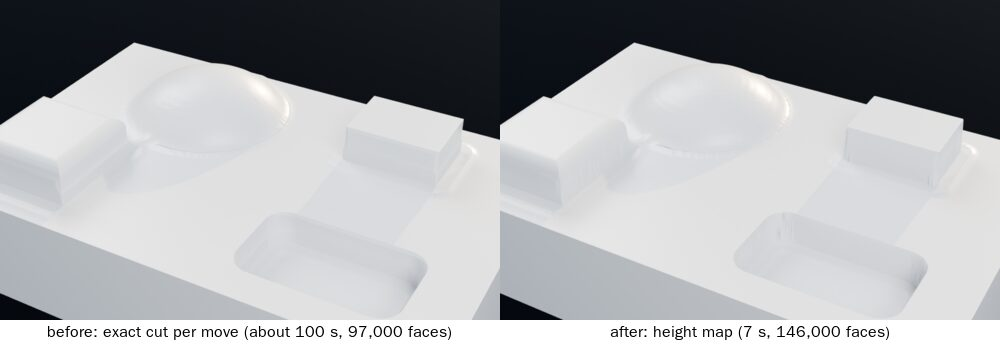
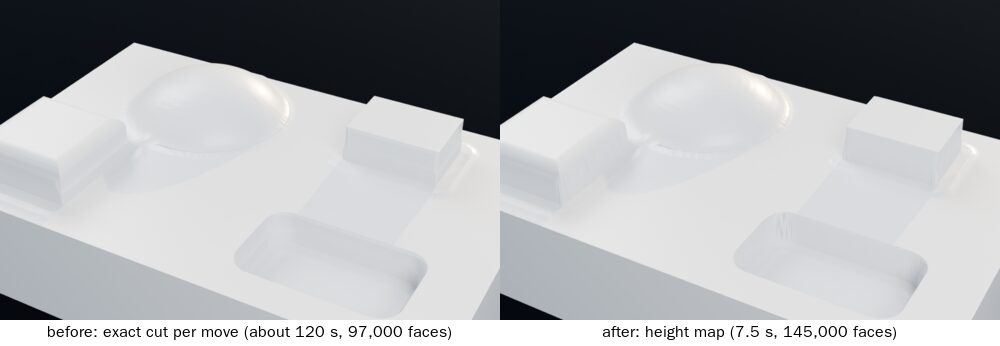
Task 0146 (work in progress): final numbers and pictures [skip ci]
Claude-Session: https://claude.ai/code/session_01LGPBd4df3oS3HTUJeq8D3D

Changed region(s): [[0.589, 0.9249, 0.899, 0.9827]]

diff --git a/CHANGELOG.md b/CHANGELOG.md
@@ -11,11 +11,11 @@ installer of that version was built from.
   cuts straight from above – a finishing program from CAM, or the app's own **Make a toolpath** – is now worked out
   as a height map (the lowest point the tool reached above every spot of the block) instead of one exact cut per
   move. Measured on the 4-core test machine, Detail Normal:
-  - a finishing program of 40,000 points (ball Ø6, 100 × 60 mm, passes 0.3 mm apart): the whole cut in **3 s
-    instead of 2.4 minutes**, 27,000 faces instead of 256,000; one frame further while playing 40 ms instead of
-    53 ms, one frame back 59 ms instead of 235 ms;
-  - a dome (3,750 moves, passes 0.5 mm apart): 1.3 s instead of 32 s, 19,000 faces instead of 62,000;
-  - the toolpath test model (7,243 moves, roughing and finishing): 7 s instead of about 2 minutes – but 146,000
+  - a finishing program of 40,000 points (ball Ø6, 100 × 60 mm, passes 0.3 mm apart): the whole cut in **3.5 s
+    instead of 2.4 minutes**, 30,000 faces instead of 256,000; one frame further while playing 38 ms instead of
+    53 ms, one frame back 72 ms instead of 235 ms;
+  - a dome (3,750 moves, passes 0.5 mm apart): 1.6 s instead of 32 s, 21,000 faces instead of 62,000;
+  - the toolpath test model (7,243 moves, roughing and finishing): 8 s instead of about 2 minutes – but 146,000
     faces instead of 97,000: on walls and steps the map needs more faces than the exact cut.
 - **What goes into it:** programs of 3,000 moves or more, and shorter ones (from 300 moves) whose passes lie close
   together (a short, thinly spread program is quicker and lighter cut exactly); of those the moves where the tool

diff --git a/docs/USER-GUIDE.md b/docs/USER-GUIDE.md
@@ -1537,7 +1537,7 @@ out as a height map instead: the lowest point the tool reached above every spot 
   tunnel under the surface. One program can have both kinds of moves: they are joined.
 - **What you see:** the same block, the same cut faces and tool marks. Measured on the 4-core test machine
   with a finishing program of 40,000 points (ball Ø6, 100 × 60 mm, passes 0.3 mm apart): the whole cut in
-  3 seconds instead of 2.4 minutes, 27,000 faces instead of 256,000. The line under the settings says how
+  3.5 seconds instead of 2.4 minutes, 30,000 faces instead of 256,000. The line under the settings says how
   many moves went into the height map ("… 14,008 cutting moves, 14,008 as height map, 0.2 mm grid"). A program
   with many walls and steps (roughing) is as much faster, but gets more faces than the exact cut.
 - **How exact** (Detail **Normal**, a grid of 0.2 mm; all of it halves at **Fine**; a block larger than about
